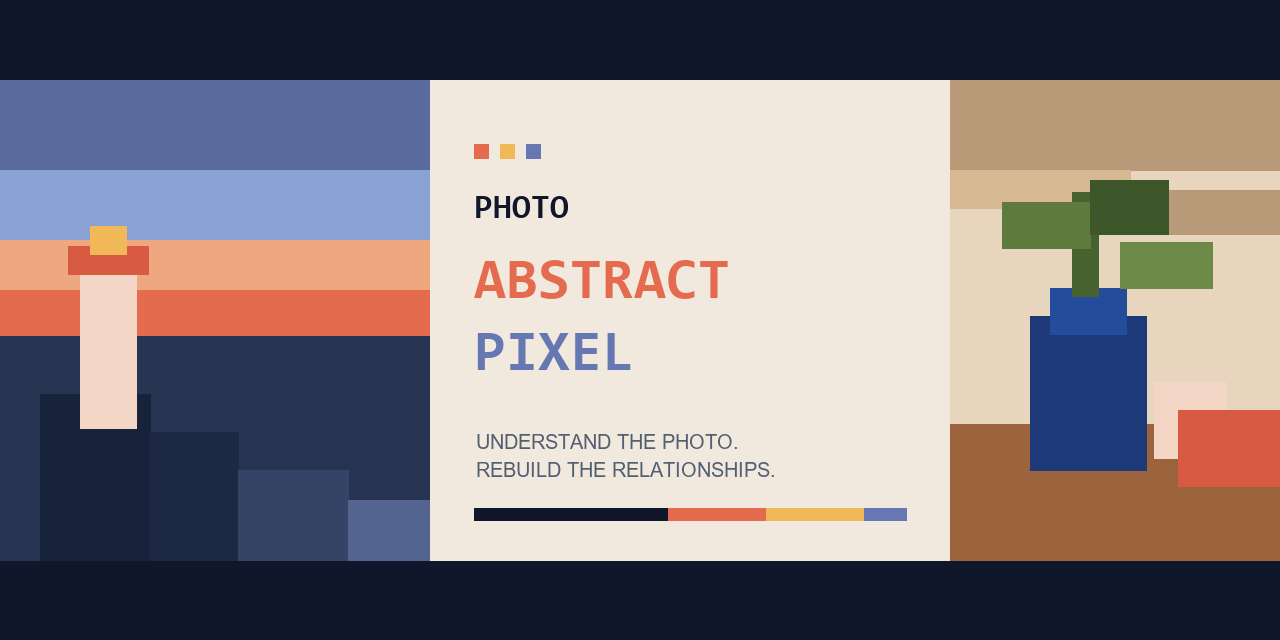
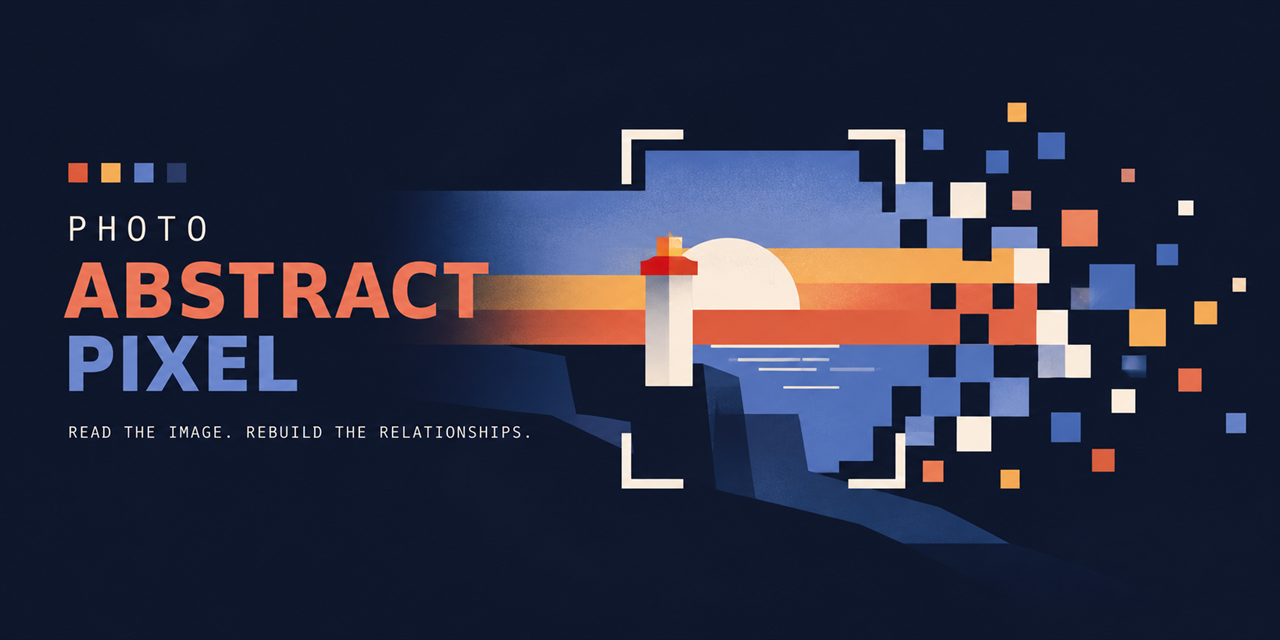
Redraw repository brand

diff --git a/README.en.md b/README.en.md
@@ -1,6 +1,6 @@
 <div align="center">
 
-<img src="./assets/brand/hero.svg" width="100%" alt="Photo Abstract Pixel — turn photographs into restrained abstract pixel art">
+<img src="./assets/brand/social-preview-1280x640.png" width="100%" alt="Photo Abstract Pixel — read the image, rebuild the relationships">
 
 # Photo Abstract Pixel
 

diff --git a/README.md b/README.md
@@ -1,6 +1,6 @@
 <div align="center">
 
-<img src="./assets/brand/hero.svg" width="100%" alt="Photo Abstract Pixel — turn photographs into restrained abstract pixel art">
+<img src="./assets/brand/social-preview-1280x640.png" width="100%" alt="Photo Abstract Pixel — read the image, rebuild the relationships">
 
 # Photo Abstract Pixel
 
